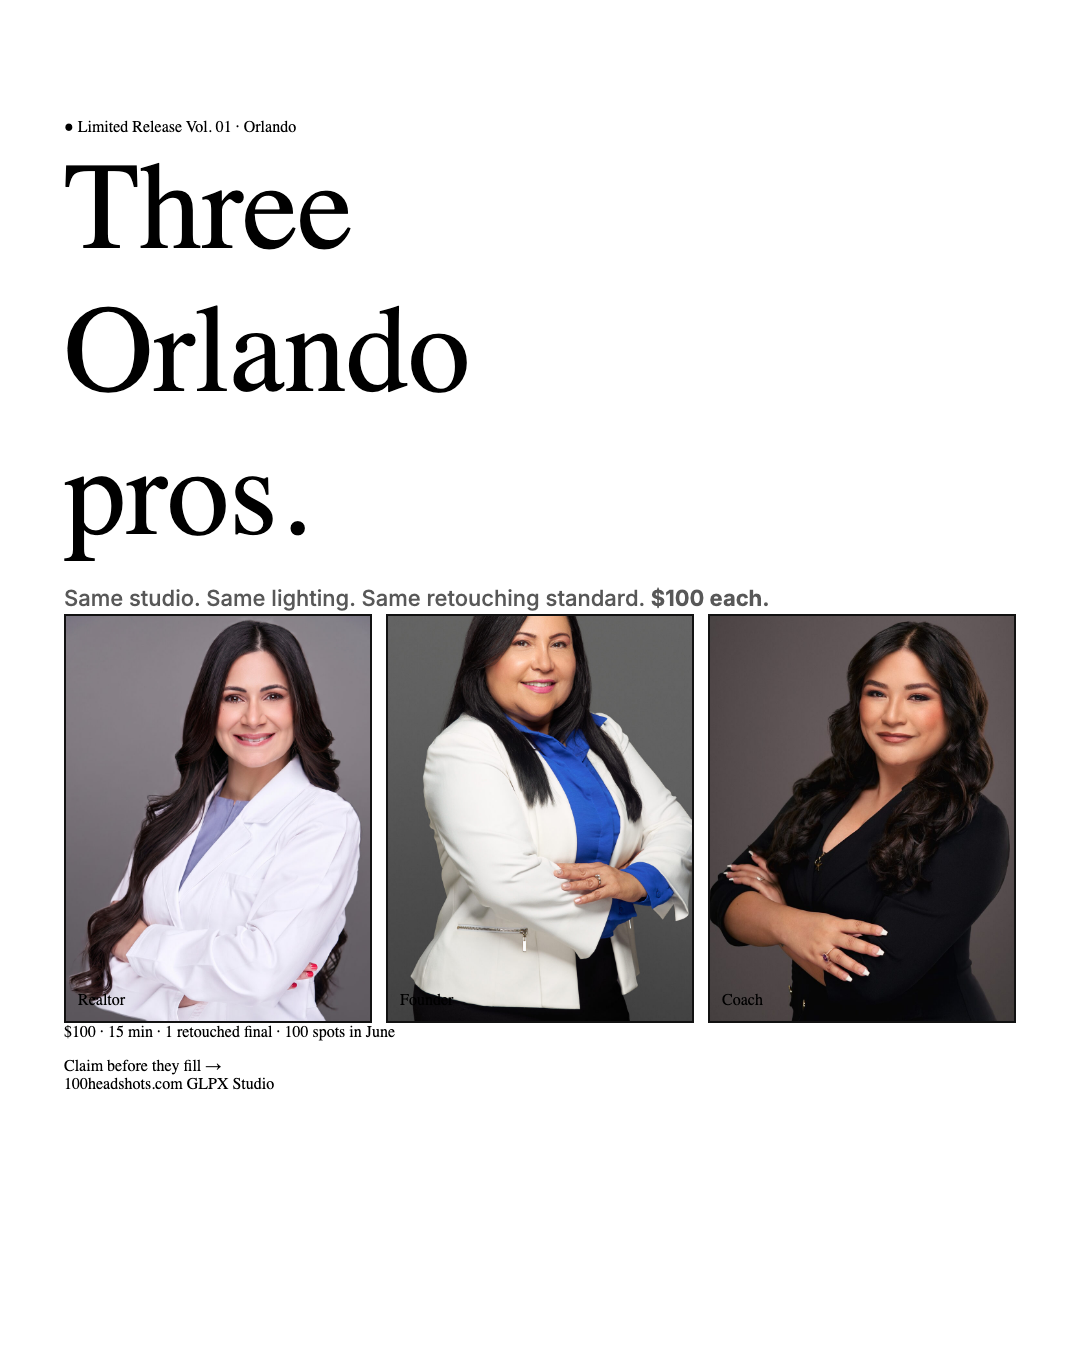
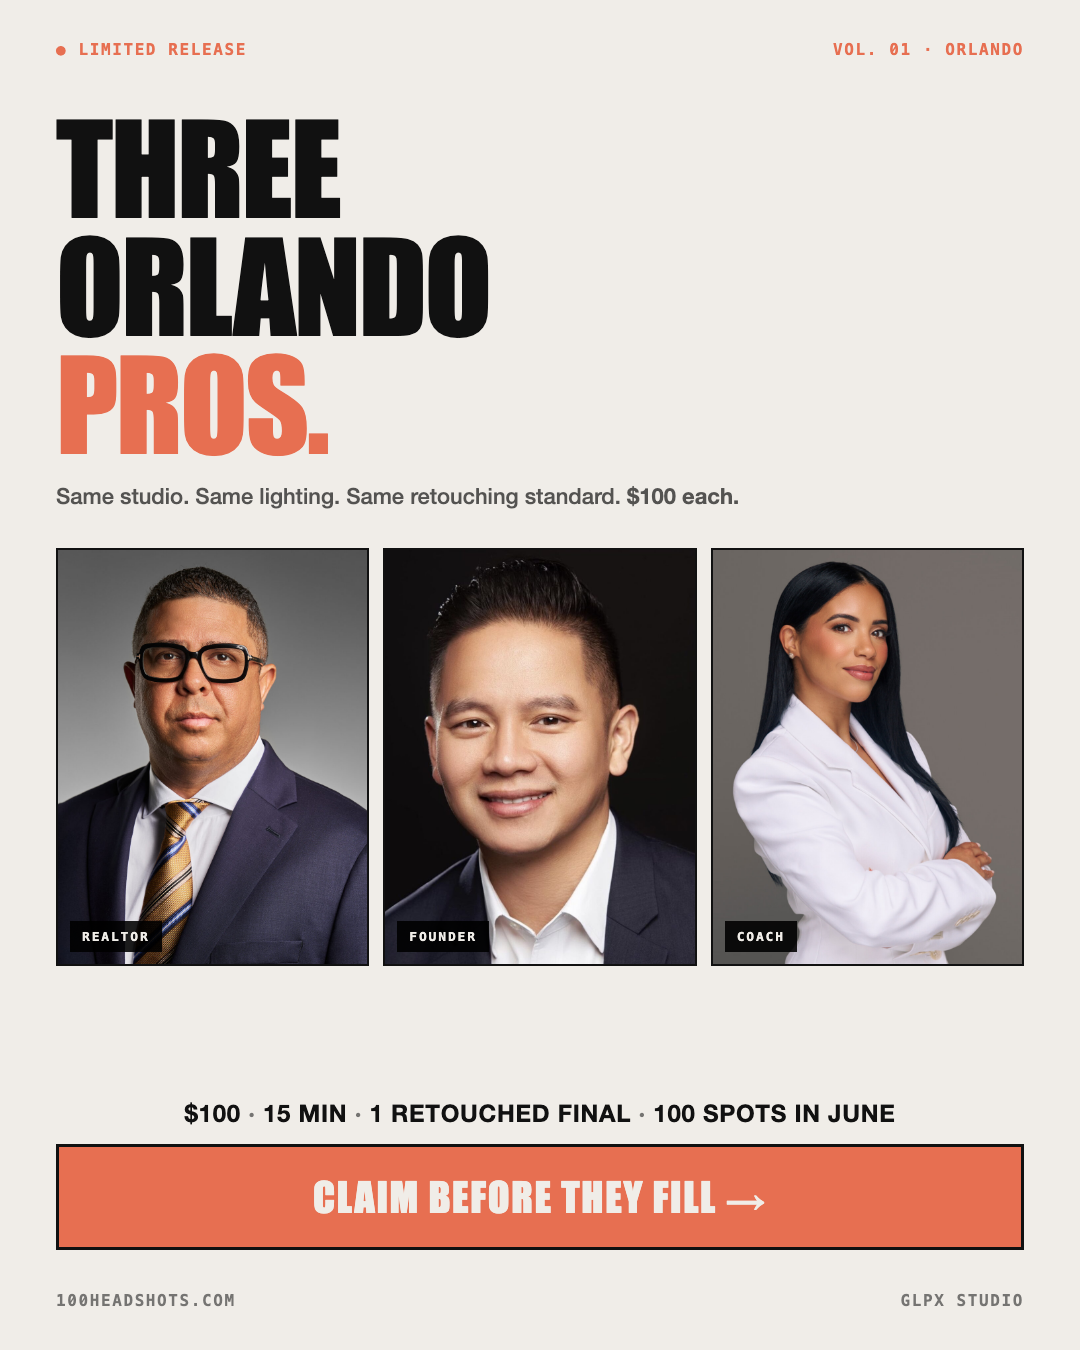
Swap headshots: drop gallery-04, use 03/07/08 for Three Pros + 07 for carousel Founder
- A2 Three Pros: 02/04/06 → 03/07/08
- A3 Carousel card-3-founder: 04 → 07

diff --git a/ads/ad-2-three-pros/design.html b/ads/ad-2-three-pros/design.html
@@ -22,15 +22,15 @@
 
   <div class="grid-3">
     <div class="frame">
-      <img src="../../100-headshots-assets/gallery-02.jpg" alt="Realtor headshot" />
+      <img src="../../100-headshots-assets/gallery-03.jpg" alt="Realtor headshot" />
       <span class="frame-tag role">Realtor</span>
     </div>
     <div class="frame">
-      <img src="../../100-headshots-assets/gallery-04.jpg" alt="Founder headshot" />
+      <img src="../../100-headshots-assets/gallery-07.jpg" alt="Founder headshot" />
       <span class="frame-tag role">Founder</span>
     </div>
     <div class="frame">
-      <img src="../../100-headshots-assets/gallery-06.jpg" alt="Coach headshot" />
+      <img src="../../100-headshots-assets/gallery-08.jpg" alt="Coach headshot" />
       <span class="frame-tag role">Coach</span>
     </div>
   </div>

diff --git a/ads/ad-3-carousel/card-3-founder.html b/ads/ad-3-carousel/card-3-founder.html
@@ -15,7 +15,7 @@
 </style></head>
 <body>
   <div class="frame">
-    <img src="../../100-headshots-assets/gallery-04.jpg" alt="Founder headshot" />
+    <img src="../../100-headshots-assets/gallery-07.jpg" alt="Founder headshot" />
     <div class="overlay-top">
       <span class="left">● Card 03 / 05</span>
       <span>Orlando · 2026</span>
